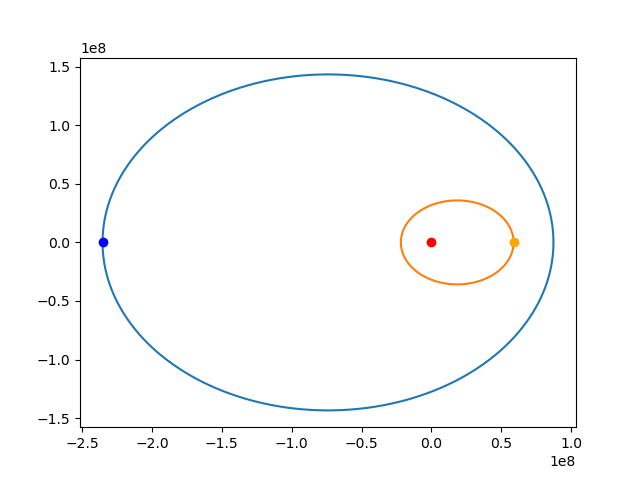
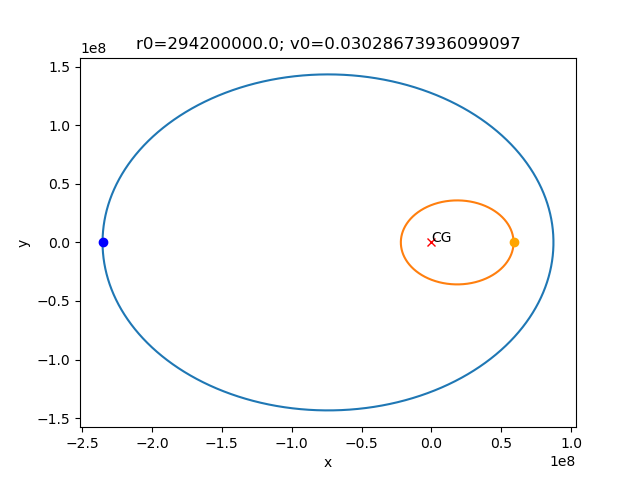
Afinando_graficas

diff --git a/Lagrane_Euler_Newton.py b/Lagrane_Euler_Newton.py
@@ -27,15 +27,15 @@ def LagrangePoints(mu):
     return result
 
 
-if __name__=="__main__":
-    mu = np.linspace(0.01, 0.5, 100)
+if __name__ == "__main__":
+    mu = np.linspace(0.01, 0.5, 50)
 
     L3 = np.array([optimize.newton(f3, 0, args=(xx,), maxiter=1000000) for xx in mu])
     L2 = np.array([optimize.newton(f2, 0, args=(xx,), maxiter=1000000) for xx in mu])
     L1 = np.array([optimize.newton(f1, 0, args=(xx,), maxiter=1000000) for xx in mu])
 
-    savefig = False
-    plot = False
+    savefig = True
+    plot = True
 
     if savefig:
         fig = plt.figure(1)
@@ -60,7 +60,6 @@ if __name__=="__main__":
         fig.savefig('Newtonian_L1_mu')
 
     if plot:
-
         fig = plt.figure(4)
         # plt.hlines(0.5, -2, 2, colors='k')  # Draw a horizontal line
         plt.xlim(-2, 2)
@@ -70,9 +69,8 @@ if __name__=="__main__":
         plt.plot(L2, mu, 'o', ms=2, label='L2')
         plt.plot(L1, mu, 'o', ms=2, label='L1')
 
-        # Esto está bien?
         plt.plot(-mu, mu, 'o', color='grey', ms=5, label='m1')
-        plt.plot(1-mu, mu, 'o', color='darkgrey', ms=5, label='m2')
+        plt.plot(1 - mu, mu, 'o', color='darkgrey', ms=5, label='m2')
 
         plt.ylabel(r'$\mu$')
         plt.xlabel('x')
@@ -81,3 +79,29 @@ if __name__=="__main__":
 
         plt.legend()
         fig.savefig('Newton LagrangeEulerCollinearNewton')
+
+    mu = 0.3
+    Ls = LagrangePoints(mu)
+
+    if plot:
+
+        fig = plt.figure(5)
+        plt.xlim(-2, 2)
+        plt.ylim(-1, 1)
+
+        for ii in range(len(Ls)):
+            plt.plot(Ls[ii][0], Ls[ii][1], 'o', color='b')
+            plt.text(Ls[ii][0] + 0.005, Ls[ii][1] + 0.005, f"$L_{ii + 1}$")
+
+        plt.plot(-mu, 0, 'o', color='grey', ms=(1 - mu) * 10, label='m1')
+        plt.text(-mu, 0, "$m_1$")
+        plt.plot(1 - mu, 0, 'o', color='darkgrey', ms=mu * 10, label='m2')
+        plt.text(1 - mu, 0, "$m_2$")
+        plt.plot(0, 0, 'x', color='red')
+        plt.text(0, 0, "CG")
+        plt.title(f'Lagrange Points $V_N$, $\mu={mu}$')
+        plt.xlabel("x")
+        plt.ylabel("y")
+        plt.grid()
+        plt.show()
+        fig.savefig('LagrangeNewtonPoints_NewtonPotential')

diff --git a/Lagrane_Euler_Log.py b/Lagrane_Euler_Log.py
@@ -13,7 +13,7 @@ def LagrangePoints(mu):
     L3 = (optimize.newton(f3, 0, args=(mu,), maxiter=1000000), 0)
     L1 = (1 / 2 - mu, np.sqrt(3) / 2)
     L2 = (1 / 2 - mu, -np.sqrt(3) / 2)
-    result = L1, L2, L3
+    result = [L1, L2, L3]
     return result
 
 
@@ -21,18 +21,18 @@ if __name__=="__main__":
 
     mu = np.linspace(0.01, 0.5, 100)
 
-    L1 = np.array([optimize.newton(f3, 0, args=(xx,), maxiter=1000000) for xx in mu])
+    L3 = np.array([optimize.newton(f3, 0, args=(xx,), maxiter=1000000) for xx in mu])
 
     savefig = True
     plot = True
 
     if savefig:
         fig = plt.figure(3)
-        plt.plot(mu, L1)
-        plt.title(r'L1($\mu$)')
+        plt.plot(mu, L3)
+        plt.title(r'L3($\mu$)')
         plt.grid(True)
         plt.xlabel(r'$\mu$')
-        fig.savefig('Log_L1_mu')
+        fig.savefig('Log_L3_mu')
 
     if plot:
 
@@ -41,7 +41,7 @@ if __name__=="__main__":
         plt.xlim(-2, 2)
         plt.ylim(0, 0.5)
 
-        plt.plot(L1, mu, 'o', ms=2, label='L1')
+        plt.plot(L3, mu, 'o', ms=2, label='L1')
 
         # Esto está bien?
         plt.plot(-mu, mu, 'o', color='grey', ms=5, label='m1')
@@ -54,3 +54,29 @@ if __name__=="__main__":
 
         plt.legend()
         fig.savefig('LagrangeEulerCollinearLog')
+
+    mu = 0.3
+    Ls = LagrangePoints(mu)
+
+    if plot:
+
+        fig = plt.figure(5)
+        plt.xlim(-1, 1)
+        plt.ylim(-1, 1)
+
+        for ii in range(len(Ls)):
+            plt.plot(Ls[ii][0], Ls[ii][1], 'o', color='b')
+            plt.text(Ls[ii][0]+0.005, Ls[ii][1]+0.005, f"$L_{ii+1}$")
+
+        plt.plot(-mu, 0, 'o', color='grey', ms=(1-mu)*10, label='m1')
+        plt.text(-mu, 0, "$m_1$")
+        plt.plot(1-mu, 0, 'o', color='darkgrey', ms=mu*10, label='m2')
+        plt.text(1-mu, 0, "$m_2$")
+        plt.plot(0, 0, 'x', color='red')
+        plt.text(0, 0, "CG")
+        plt.title(f'Lagrange Points $V_{{Log}}$, $\mu={mu}$')
+        plt.xlabel("x")
+        plt.ylabel("y")
+        plt.grid()
+        plt.show()
+        fig.savefig('LagrangeNewtonPoints_LogPotential')

diff --git a/main_2BNewton.py b/main_2BNewton.py
@@ -48,7 +48,7 @@ print("excentricidad:", excen)
 print("V_ef", V_ef)
 print("E - V_ef=", E-V_ef)
 
-twoBodySystem.plot_Enery_potential()
+# twoBodySystem.plot_Enery_potential()
 
 # Calcular Newton
 orbit = twoBodySystem.calculate_orbit(theta0, thetafin)
@@ -61,12 +61,16 @@ figr = plt.figure()
 plt.plot(r)
 plt.show()
 [rx, ry, rz] = polar2cartesian(r, theta, 0)
-title = "r0="+str(r0)+"; v0="+str(vr_0)
+title = "r0="+str(twoBodySystem.r_distance)+"; v0="+str(h0/r0)
 plot(rx, ry, rz, title=title, excen=excen, h=h0, mu=mu, theta_fin=thetafin)
 fig2D = plt.figure(1)
 plt.plot(twoBodySystem.orbit_1[0], twoBodySystem.orbit_1[1])
 plt.plot(twoBodySystem.orbit_1[0][0], twoBodySystem.orbit_1[1][0], 'bo')
 plt.plot(twoBodySystem.orbit_2[0], twoBodySystem.orbit_2[1])
 plt.plot(twoBodySystem.orbit_2[0][0], twoBodySystem.orbit_2[1][0], 'o', color='orange')
-plt.plot(0, 0, 'ro')
+plt.plot(0, 0, 'rx')
+plt.text(0, 0, "CG")
+plt.title(title)
+plt.xlabel("x")
+plt.ylabel("y")
 fig2D.savefig("2BNewton")

diff --git a/Jacobi_Newton.py b/Jacobi_Newton.py
@@ -70,3 +70,25 @@ if __name__=="__main__":
     plt.axis('equal')
 
     fig.savefig('CJ_contour_LagrangePoints_Newton')
+
+    fig2 = plt.figure(2)  # contronos
+
+    c = plt.contour(xx, yy, CJ_general, levels=[3, 3.5, 4, 4.5, 5], cmap=cm.ocean)
+    plt.clabel(c, inline=True)
+
+    # General contours
+    plt.contour(xx, yy, CJ_general, levels=30)
+
+    # masses
+    s1 = 100*(1-mu)
+    s2 = 100*mu
+
+    plt.scatter([-mu], [0], s=s1, color='grey', zorder=1)
+    plt.text(-mu-0.1, -0.15, r'$m_1$')
+    plt.scatter([1-mu], [0], s=s2, color='darkgrey', zorder=1)
+    plt.text(1-mu-0.1, -0.15, r'$m_2$')
+
+    plt.axis('off')
+    plt.axis('equal')
+
+    fig2.savefig('CJ_contours_LagrangePoints_Newton')

diff --git a/main_2BLog.py b/main_2BLog.py
@@ -73,6 +73,9 @@ plt.plot(twoBodySystem.orbit_1[0], twoBodySystem.orbit_1[1])
 plt.plot(twoBodySystem.orbit_1[0][0], twoBodySystem.orbit_1[1][0], 'bo')
 plt.plot(twoBodySystem.orbit_2[0], twoBodySystem.orbit_2[1])
 plt.plot(twoBodySystem.orbit_2[0][0], twoBodySystem.orbit_2[1][0], 'o', color='orange')
-plt.plot(0, 0, 'ro')
+plt.plot(0, 0, 'rx')
+plt.text(0, 0, "CG")
+plt.xlabel("x")
+plt.ylabel("y")
 plt.show()
 fig2D.savefig("2BLog")

diff --git a/plotting.py b/plotting.py
@@ -31,8 +31,11 @@ def plot(rx, ry, rz, title="", excen=None, mu=None, h=None, theta_fin=None, show
 
     plt.legend(['Posicion inicial', 'Punto focal', 'Numérica', 'Teórica'])
     plt.title(title)
+    plt.xlabel("x")
+    plt.ylabel("y")
     if show:
         plt.show()
+    fig.savefig("Theorical_vs_Numerical")
 
     fig2 = plt.figure(101, figsize=(10, 10))
     error = np.sqrt((rx-rx_theo)**2 + (ry-ry_theo)**2)

diff --git a/Jacobi_Log.py b/Jacobi_Log.py
@@ -48,7 +48,6 @@ if __name__ == "__main__":
 
     fig = plt.figure(1)
     plt.title(f"CJ with $\mu$ = {mu}")
-    # plt.contour(x, y, CJ_general, levels=1000)
     cLagrange = plt.contour(xx, yy, CJ_general, levels=CJ_Lagrange[1:], cmap=cm.Set1, zorder=-1)
     c = plt.contour(xx, yy, CJ_general, levels=[1, 2], cmap=cm.ocean)
     plt.clabel(cLagrange, inline=True)
